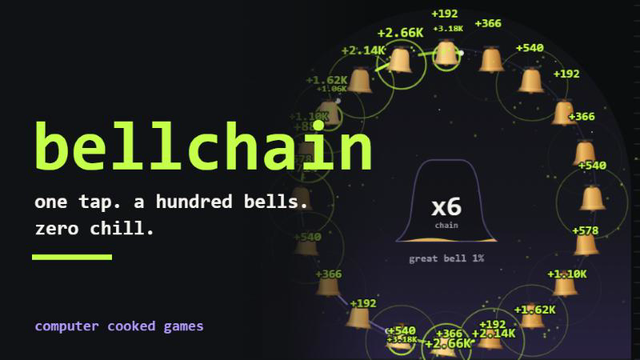
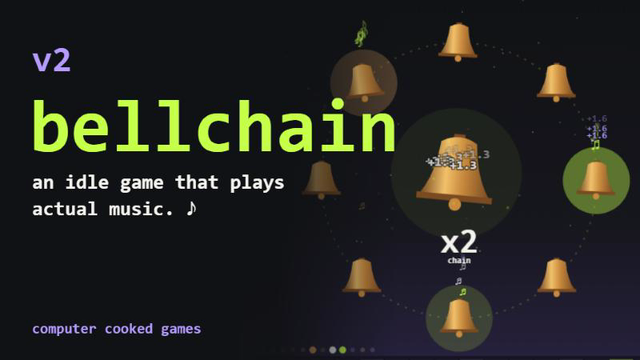
Bellchain v2

diff --git a/games/bellchain/play/js/economy.js b/games/bellchain/play/js/economy.js
@@ -9,8 +9,8 @@ export const CFG = {
   crescBase: 0.25, crescStep: 0.15,
   chainMax: 8,            // a full octave run is a perfect peal
   perfectMult: 3,
-  prestigeBase: 1e8,      // overtones = floor(cbrt(lifetime / prestigeBase))
-  overtoneBonus: 0.02,    // +2% production per overtone level
+  prestigeBase: 3e6,      // overtones = floor(cbrt(lifetime / prestigeBase))
+  overtoneBonus: 0.1,     // +10% production per overtone level
   achBonus: 0.01,         // +1% production per achievement
   songBonus: 0.04,        // +4% per song in the songbook
   offlineEff: 0.5, offlineCapH: 8,
@@ -23,33 +23,33 @@ export const BUILDINGS = [
   { id: 'cowbell', name: 'cowbell', cost: 100, rate: 1, role: 'beat', desc: 'more cowbell. the people demanded it.' },
   { id: 'glock', name: 'glockenspiel', cost: 1100, rate: 8, role: 'sparkle', desc: 'tiny metal bars. big feelings.' },
   { id: 'church', name: 'church bell', cost: 12000, rate: 47, role: 'bass', desc: 'one note. every bar. very serious.' },
-  { id: 'tubular', name: 'tubular bell', plural: 'tubular bells', cost: 130000, rate: 260, role: 'chords', desc: 'chords now. you are basically a band.' },
-  { id: 'steel', name: 'steel drum', cost: 1.4e6, rate: 1400, role: 'arp', desc: 'arpeggios with a vacation attitude.' },
-  { id: 'gamelan', name: 'gamelan', cost: 2e7, rate: 7800, role: 'counter', desc: 'a counter-melody that shimmers on purpose.' },
-  { id: 'crystal', name: 'crystal bell', cost: 3.3e8, rate: 44000, role: 'shimmer', desc: 'glass that sings. do not drop it.' },
-  { id: 'chip', name: '8-bit bell', cost: 5.1e9, rate: 260000, role: 'chip', desc: 'bleeps from a cartridge you blew into.' },
-  { id: 'choir', name: 'choir', cost: 7.5e10, rate: 1.6e6, role: 'pad', desc: 'forty people going "aaah" in your browser.' },
-  { id: 'carillon', name: 'carillon tower', cost: 1e12, rate: 1e7, role: 'carillon', desc: 'an entire tower. zoning was a nightmare.' },
-  { id: 'cosmic', name: 'cosmic bell', cost: 1.4e13, rate: 6.5e7, role: 'cosmic', desc: 'rings once and the universe hears it in 4 billion years.' },
+  { id: 'tubular', name: 'tubular bell', plural: 'tubular bells', cost: 2e5, rate: 260, role: 'chords', desc: 'chords now. you are basically a band.' },
+  { id: 'steel', name: 'steel drum', cost: 2.1e6, rate: 1400, role: 'arp', desc: 'arpeggios with a vacation attitude.' },
+  { id: 'gamelan', name: 'gamelan', cost: 3e7, rate: 7800, role: 'counter', desc: 'a counter-melody that shimmers on purpose.' },
+  { id: 'crystal', name: 'crystal bell', cost: 5e8, rate: 44000, role: 'shimmer', desc: 'glass that sings. do not drop it.' },
+  { id: 'chip', name: '8-bit bell', cost: 7.7e9, rate: 260000, role: 'chip', desc: 'bleeps from a cartridge you blew into.' },
+  { id: 'choir', name: 'choir', cost: 1.1e11, rate: 1.6e6, role: 'pad', desc: 'forty people going "aaah" in your browser.' },
+  { id: 'carillon', name: 'carillon tower', cost: 1.5e12, rate: 1e7, role: 'carillon', desc: 'an entire tower. zoning was a nightmare.' },
+  { id: 'cosmic', name: 'cosmic bell', cost: 2.1e13, rate: 6.5e7, role: 'cosmic', desc: 'rings once and the universe hears it in 4 billion years.' },
 ];
 for (const b of BUILDINGS) b.plural = b.plural || b.name + 's';
 export const BY_ID = Object.fromEntries(BUILDINGS.map((b) => [b.id, b]));
 
 export const SONGS = [
   { id: 'twinkle', name: 'twinkle twinkle', cost: 0 },
-  { id: 'mary', name: 'mary had a little lamb', cost: 400 },
-  { id: 'frere', name: 'frère jacques', cost: 6000 },
-  { id: 'ode', name: 'ode to joy', cost: 9e4 },
-  { id: 'jingle', name: 'jingle bells', cost: 1.5e6 },
-  { id: 'westminster', name: 'westminster chimes', cost: 2.5e7 },
-  { id: 'canon', name: 'canon in d (ish)', cost: 4e8 },
-  { id: 'improv', name: 'improv.exe', cost: 7e9 },
+  { id: 'mary', name: 'mary had a little lamb', cost: 150 },
+  { id: 'frere', name: 'frère jacques', cost: 2500 },
+  { id: 'ode', name: 'ode to joy', cost: 2.5e4 },
+  { id: 'jingle', name: 'jingle bells', cost: 2.5e5 },
+  { id: 'westminster', name: 'westminster chimes', cost: 4e6 },
+  { id: 'canon', name: 'canon in d (ish)', cost: 8e7 },
+  { id: 'improv', name: 'improv.exe', cost: 2e9 },
 ];
 
 // ---------- upgrades ----------
-const TIER_WORDS = ['polished', 'tuned', 'resonant', 'harmonic', 'legendary', 'transcendent', 'illegal'];
-const TIER_AT = [1, 5, 25, 50, 100, 150, 200];
-const TIER_COST = [10, 50, 500, 5e4, 5e6, 5e8, 5e10];
+const TIER_WORDS = ['polished', 'tuned', 'resonant', 'harmonic', 'legendary', 'transcendent', 'illegal', 'bright'];
+const TIER_AT = [1, 5, 25, 50, 100, 150, 200, 10];
+const TIER_COST = [10, 50, 500, 5e4, 5e6, 5e8, 5e10, 120];
 
 export const UPGRADES = [];
 for (const b of BUILDINGS) {
@@ -73,6 +73,14 @@ for (const b of BUILDINGS) {
   UPGRADES.push({ id: `cresc_${i}`, name: ['crescendo', 'fortissimo', 'sforzando', 'too loud'][i], cost,
     desc: `each echo hop +${Math.round(CFG.crescStep * 100)}%`, req: (s) => s.earnedRun >= cost * 0.3, kind: 'cresc' });
 });
+[50, 250, 1200, 6000, 3e4].forEach((cost, i) => {
+  UPGRADES.push({ id: `mallet_${i}`, name: ['foam mallet', 'wooden mallet', 'rubber mallet', 'brass mallet', 'sledgehammer'][i], cost,
+    desc: 'taps +1 base resonance', req: (s) => s.earnedRun >= cost * 0.3, kind: 'mallet' });
+});
+[150, 900, 5000, 2.5e4, 1.2e5].forEach((cost, i) => {
+  UPGRADES.push({ id: `practice_${i}`, name: ['band practice', 'metronome', 'sheet music', 'rehearsal room', 'a real manager'][i], cost,
+    desc: 'everything +5%', req: (s) => s.earnedRun >= cost * 0.3, kind: 'global', mult: 1.05 });
+});
 [[1e6, 1e5], [1e8, 1e7], [1e10, 1e9], [1e12, 1e11], [1e14, 1e13], [1e16, 1e15]].forEach(([cost, need], i) => {
   UPGRADES.push({ id: `hall_${i}`, name: ['carpet removal', 'vaulted roof', 'concert hall', 'stadium', 'mountain range', 'a whole moon'][i], cost,
     desc: 'everything +15%', req: (s) => s.earnedRun >= need, kind: 'global', mult: 1.15 });
@@ -84,8 +92,8 @@ export const UP_BY_ID = Object.fromEntries(UPGRADES.map((u) => [u.id, u]));
 // ---------- prestige tree (bought with overtone chips) ----------
 export const NODES = [
   { id: 'pitch', name: 'perfect pitch', cost: 1, desc: 'taps x3' },
-  { id: 'night', name: 'night shift', cost: 3, desc: 'offline earnings 50% → 100%, cap 24h' },
-  { id: 'start', name: 'head start', cost: 5, desc: 'every run starts with 10 handbells and 5 cowbells' },
+  { id: 'night', name: 'night shift', cost: 10, desc: 'offline earnings 50% → 100%, cap 24h' },
+  { id: 'start', name: 'head start', cost: 2, desc: 'every run starts with 10 handbells and 5 cowbells' },
   { id: 'ear', name: 'golden ear', cost: 8, desc: 'golden bells twice as often (stacks)' },
   { id: 'twin', name: 'twin echo', cost: 12, desc: 'echo chance +15%' },
   { id: 'bargain', name: 'bargain bronze', cost: 20, desc: 'all bells 10% cheaper' },
@@ -94,20 +102,23 @@ export const NODES = [
   { id: 'sustain', name: 'sustain pedal', cost: 80, desc: 'all production x2' },
   { id: 'setlist', name: 'setlist', cost: 120, desc: 'keep your songbook through recasts' },
   { id: 'encore', name: 'standing ovation', cost: 200, desc: 'all production x3' },
-  { id: 'choir', name: 'eternal choir', cost: 400, desc: 'each overtone level +3% instead of +2%' },
+  { id: 'choir', name: 'eternal choir', cost: 400, desc: 'each overtone level +15% instead of +10%' },
 ];
 
 // ---------- achievements: each one is +1% production ----------
 export const ACH = [];
 const A = (id, name, desc, test) => ACH.push({ id, name, desc, test });
-[[100, 'first ding'], [1e3, 'tinnitus'], [1e4, 'noise complaint'], [1e5, 'the neighbors know'], [1e6, 'millionaire mallet'], [1e7, 'local legend'],
+[[100, 'first ding'], [400, 'humming along'], [1e3, 'tinnitus'], [4e3, 'earworm'], [1e4, 'noise complaint'], [4e4, 'hoa letter'], [1e5, 'the neighbors know'], [4e5, 'police were called'], [1e6, 'millionaire mallet'], [1e7, 'local legend'],
   [1e8, 'bell to the chief'], [1e9, 'billion bongs'], [1e11, 'seismic'], [1e13, 'audible from orbit'], [1e15, 'the sun complains'], [1e18, 'heat death soundtrack']]
   .forEach(([n, name]) => A('earn_' + n, name, `ring up ${fmt(n)} resonance, ever`, (s) => s.earnedAll >= n));
-[[1, 'hobby'], [10, 'side hustle'], [100, 'full time'], [1e3, 'franchise'], [1e4, 'conglomerate'], [1e5, 'monopoly'], [1e6, 'too big to toll'], [1e8, 'post-scarcity']]
+[[1, 'hobby'], [5, 'busking'], [10, 'side hustle'], [50, 'wedding gigs'], [100, 'full time'], [500, 'touring'], [1e3, 'franchise'], [5e3, 'arena tour'], [1e4, 'conglomerate'], [1e5, 'monopoly'], [1e6, 'too big to toll'], [1e8, 'post-scarcity']]
   .forEach(([n, name]) => A('rps_' + n, name, `make ${fmt(n)} resonance per second`, (s, rps) => rps >= n));
 [[100, 'warm hands'], [1000, 'carpal tunnel'], [5000, 'the clicker']].forEach(([n, name]) => A('tap_' + n, name, `tap ${fmt(n)} times`, (s) => s.taps >= n));
 for (const b of BUILDINGS) {
   A(`own1_${b.id}`, `first ${b.name}`, `own a ${b.name}`, (s) => (s.owned[b.id] || 0) >= 1);
+  A(`own5_${b.id}`, `${b.name} duet`, `own 5 ${b.plural}`, (s) => (s.owned[b.id] || 0) >= 5);
+  A(`own10_${b.id}`, `${b.name} ensemble`, `own 10 ${b.plural}`, (s) => (s.owned[b.id] || 0) >= 10);
+  A(`own25_${b.id}`, `${b.name} choir practice`, `own 25 ${b.plural}`, (s) => (s.owned[b.id] || 0) >= 25);
   A(`own50_${b.id}`, `${b.name} section`, `own 50 ${b.plural}`, (s) => (s.owned[b.id] || 0) >= 50);
   A(`own100_${b.id}`, `${b.name} orchestra`, `own 100 ${b.plural}`, (s) => (s.owned[b.id] || 0) >= 100);
 }
@@ -138,6 +149,7 @@ const has = (s, id) => !!s.ups[id];
 const node = (s, id) => !!s.nodes[id];
 const count = (s, kind) => UPGRADES.reduce((n, u) => n + (u.kind === kind && s.ups[u.id] ? 1 : 0), 0);
 
+export const otPer = (s) => (node(s, 'choir') ? 0.15 : CFG.overtoneBonus);
 export function bldMult(s, id) {
   let m = 1;
   for (let i = 0; i < TIER_AT.length; i++) if (has(s, `${id}_${i}`)) m *= 2;
@@ -145,7 +157,7 @@ export function bldMult(s, id) {
 }
 export function globalMult(s) {
   let m = 1 + CFG.achBonus * Object.keys(s.ach).length;
-  m *= 1 + (node(s, 'choir') ? 0.03 : CFG.overtoneBonus) * s.otLevel;
+  m *= 1 + otPer(s) * s.otLevel;
   m *= 1 + CFG.songBonus * (s.songs.length - 1);
   for (const u of UPGRADES) if (u.kind === 'global' && s.ups[u.id]) m *= u.mult;
   if (node(s, 'sustain')) m *= 2;
@@ -161,17 +173,17 @@ export function baseRps(s) {
 // buffs: [{kind, mult, until}] in seconds of s.playSec
 export function rps(s, buffs) {
   let r = baseRps(s);
-  for (const b of buffs || []) if (b.kind === 'frenzy') r *= b.mult;
+  r *= Math.max(1, ...(buffs || []).filter((b) => b.kind === 'frenzy').map((b) => b.mult));
   return r;
 }
 export function tapValue(s, buffs) {
-  let v = CFG.tapBase;
+  let v = CFG.tapBase + count(s, 'mallet');
   for (const u of UPGRADES) if (u.tapX2 && s.ups[u.id]) v *= 2;
   if (node(s, 'pitch')) v *= 3;
   v *= 1 + CFG.achBonus * Object.keys(s.ach).length;
   const frac = 0.01 * count(s, 'baton') + (node(s, 'conductor') ? 0.03 : 0);
   v += baseRps(s) * frac;
-  for (const b of buffs || []) if (b.kind === 'clickfrenzy') v *= b.mult;
+  v *= Math.max(1, ...(buffs || []).filter((b) => b.kind === 'clickfrenzy').map((b) => b.mult));
   return v;
 }
 export const echoChance = (s, buffs) => ((buffs || []).some((b) => b.kind === 'encore') ? 0.97 : Math.min(CFG.echoMax, CFG.echoBase + CFG.echoStep * count(s, 'echo') + (node(s, 'twin') ? 0.15 : 0)));
@@ -239,7 +251,7 @@ export function goldenEffect(s, rand) {
     const gain = Math.min(s.res * 0.15, baseRps(s) * 900) + 13;
     return { kind: 'lucky', gain, label: 'lucky · +' + fmt(gain) };
   }
-  if (r < 0.95 && s.earnedRun > 1e4) return { kind: 'clickfrenzy', mult: 777, dur: 13 * len, label: 'tap frenzy · taps x777' };
+  if (r < 0.95 && s.earnedRun > 1e4) return { kind: 'clickfrenzy', mult: 77, dur: 13 * len, label: 'tap frenzy · taps x77' };
   return { kind: 'encore', mult: 1, dur: 30 * len, label: 'encore · every tap chains' };
 }
 

diff --git a/games/bellchain/index.html b/games/bellchain/index.html
@@ -5,7 +5,7 @@
   <meta name="viewport" content="width=device-width, initial-scale=1, viewport-fit=cover">
   <!-- Generated by scripts/add-game.ps1 from games/bellchain/play/entry.json. Edit the template, not this file. -->
   <title>bellchain — play free on Computer Cooked Games</title>
-  <meta name="description" content="bellchain: hit one bell, it hits the next one. you are now a bell manager. free, plays in your browser and on your phone.">
+  <meta name="description" content="bellchain: an idle game that plays actual music. buy a cowbell. then 200 more. free, plays in your browser and on your phone.">
   <link rel="canonical" href="https://computercooked.com/games/bellchain/">
   <meta name="theme-color" content="#101114">
   <meta name="color-scheme" content="dark">
@@ -13,13 +13,13 @@
   <meta property="og:type" content="website">
   <meta property="og:site_name" content="Computer Cooked">
   <meta property="og:title" content="bellchain — Computer Cooked Games">
-  <meta property="og:description" content="hit one bell, it hits the next one. you are now a bell manager.">
+  <meta property="og:description" content="an idle game that plays actual music. buy a cowbell. then 200 more.">
   <meta property="og:url" content="https://computercooked.com/games/bellchain/">
   <meta property="og:image" content="https://computercooked.com/games/bellchain/play/thumb.png">
   <meta name="twitter:card" content="summary_large_image">
   <meta name="twitter:site" content="@computercooked">
   <meta name="twitter:title" content="bellchain — Computer Cooked Games">
-  <meta name="twitter:description" content="hit one bell, it hits the next one. you are now a bell manager.">
+  <meta name="twitter:description" content="an idle game that plays actual music. buy a cowbell. then 200 more.">
   <meta name="twitter:image" content="https://computercooked.com/games/bellchain/play/thumb.png">
 
   <link rel="icon" href="/assets/logo.svg" type="image/svg+xml">
@@ -36,7 +36,7 @@
     <div class="ad-slot" data-slot="player-top" aria-hidden="true"></div>
 
     <div class="player-layout">
-      <section class="player" id="player" aria-label="bellchain game" data-title="bellchain" data-url="https://computercooked.com/games/bellchain/" data-version="1">
+      <section class="player" id="player" aria-label="bellchain game" data-title="bellchain" data-url="https://computercooked.com/games/bellchain/" data-version="2.0">
         <div class="player-stage">
           <div class="stage-boot" aria-hidden="true">
             <span class="boot-logo"></span>
@@ -72,8 +72,8 @@
         <div class="player-panel" id="cc-panel" data-game="bellchain"></div>
         <div class="about-card">
           <h2>// bellchain</h2>
-          <p>hit one bell, it hits the next one. you are now a bell manager.</p>
-          <p><b>controls:</b> tap or click a bell to ring it. space rings a random bell, m mutes. tap upgrades to buy them.</p>
+          <p>an idle game that plays actual music. buy a cowbell. then 200 more.</p>
+          <p><b>controls:</b> tap or click anywhere to ring (space works too). buy bells and upgrades in the panel. m mutes.</p>
         </div>
         <div class="about-card">
           <h2>// made by computer cooked</h2>

diff --git a/games/bellchain/play/js/main.js b/games/bellchain/play/js/main.js
@@ -133,7 +133,7 @@ for (const b of E.BUILDINGS) {
   $('blds').appendChild(el); bldEls[b.id] = el;
 }
 function refreshShop(force) {
-  const av = E.availableUpgrades(S).slice(0, 18), key = av.map((u) => u.id).join();
+  const av = E.availableUpgrades(S).slice(0, 8), key = av.map((u) => u.id).join();
   if (force || key !== upKey) {
     upKey = key;
     $('ups').innerHTML = '';
@@ -206,10 +206,10 @@ function renderStats() {
 // recast
 function renderRecast() {
   const g = E.otGain(S), nextTh = themeFor(S.ascensions + 1);
-  $('otLabel').textContent = `${S.otLevel} overtones · +${Math.round(S.otLevel * (S.nodes.choir ? 3 : 2))}%`;
+  $('otLabel').textContent = `${S.otLevel} overtones · +${Math.round(S.otLevel * E.otPer(S) * 100)}%`;
   $('chipLabel').textContent = `${S.otChips} to spend`;
   $('recastNote').innerHTML = g > 0
-    ? `recasting now gives <b>+${g} overtones</b> (+${S.nodes.choir ? 3 : 2}% resonance each, forever) and turns your bells to <b>${nextTh.name}</b> in <b>${nextTh.mode}</b>. waiting longer gives more.`
+    ? `recasting now gives <b>+${g} overtones</b> (+${Math.round(E.otPer(S) * 100)}% resonance each, forever) and turns your bells to <b>${nextTh.name}</b> in <b>${nextTh.mode}</b>. waiting longer gives more.`
     : `the great bell needs more. next overtone at <b>${E.fmt(E.nextOtAt(S))}</b> resonance all time (you have ${E.fmt(S.earnedAll)}). the next recast turns everything <b>${nextTh.name}</b>, in <b>${nextTh.mode}</b>.`;
   $('recastBtn').disabled = g < 1;
   $('recastBtn').textContent = g > 0 ? `recast for +${g}` : 'recast';
